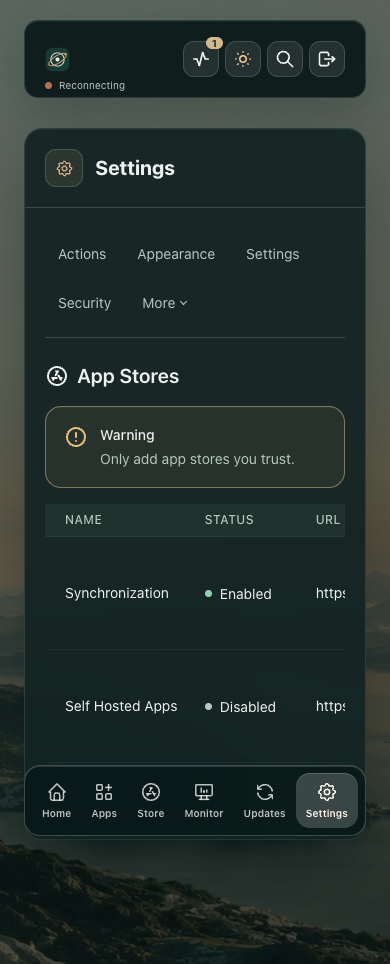
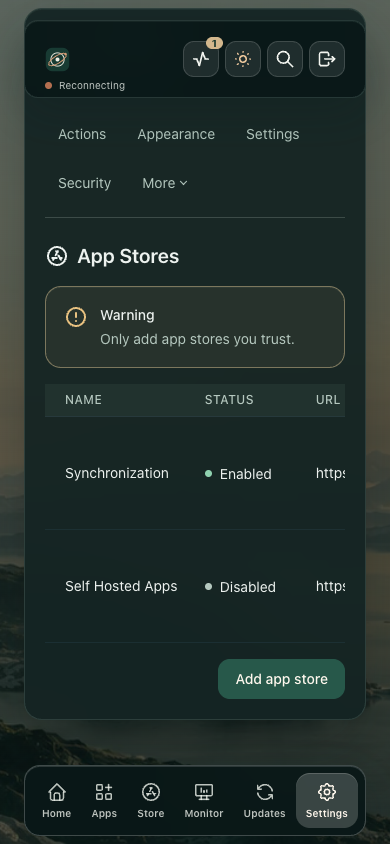
Show responsive pages in actual phone viewports

diff --git a/screenshots/page-navigation/README.md b/screenshots/page-navigation/README.md
@@ -3,7 +3,7 @@
 Current compiled-source Chrome fixture captures. API responses are intercepted locally; these are not released-image or real homelab evidence.
 
 - [Tablet Settings crop](tablet-settings.png): the supplied gutter/divider defects corrected at 768px.
-- [Phone Settings](phone-settings.png) and [App Stores](phone-app-stores.png): ordinary pages with no window controls.
+- [Phone Settings](phone-settings.png) and [App Stores](phone-app-stores.png): ordinary pages with no window controls, captured at the actual 390×844 viewport rather than stitching fixed chrome through a long document.
 - [Enlarged phone tabs](phone-enlarged-tabs.png) and [320px tabs](narrow-enlarged-tabs.png): complete labels and a divider below every row.
 - [4K enlarged Settings](wide-enlarged-settings.png): centered content and aligned title icon.
 - [Short-screen light focus](short-light-keyboard-focus.png) and [dark focus](short-dark-keyboard-focus.png): native reverse Tab at 320×400 with doubled text, clear of the sticky bar and dock. Captures retain the actual scroll position.
